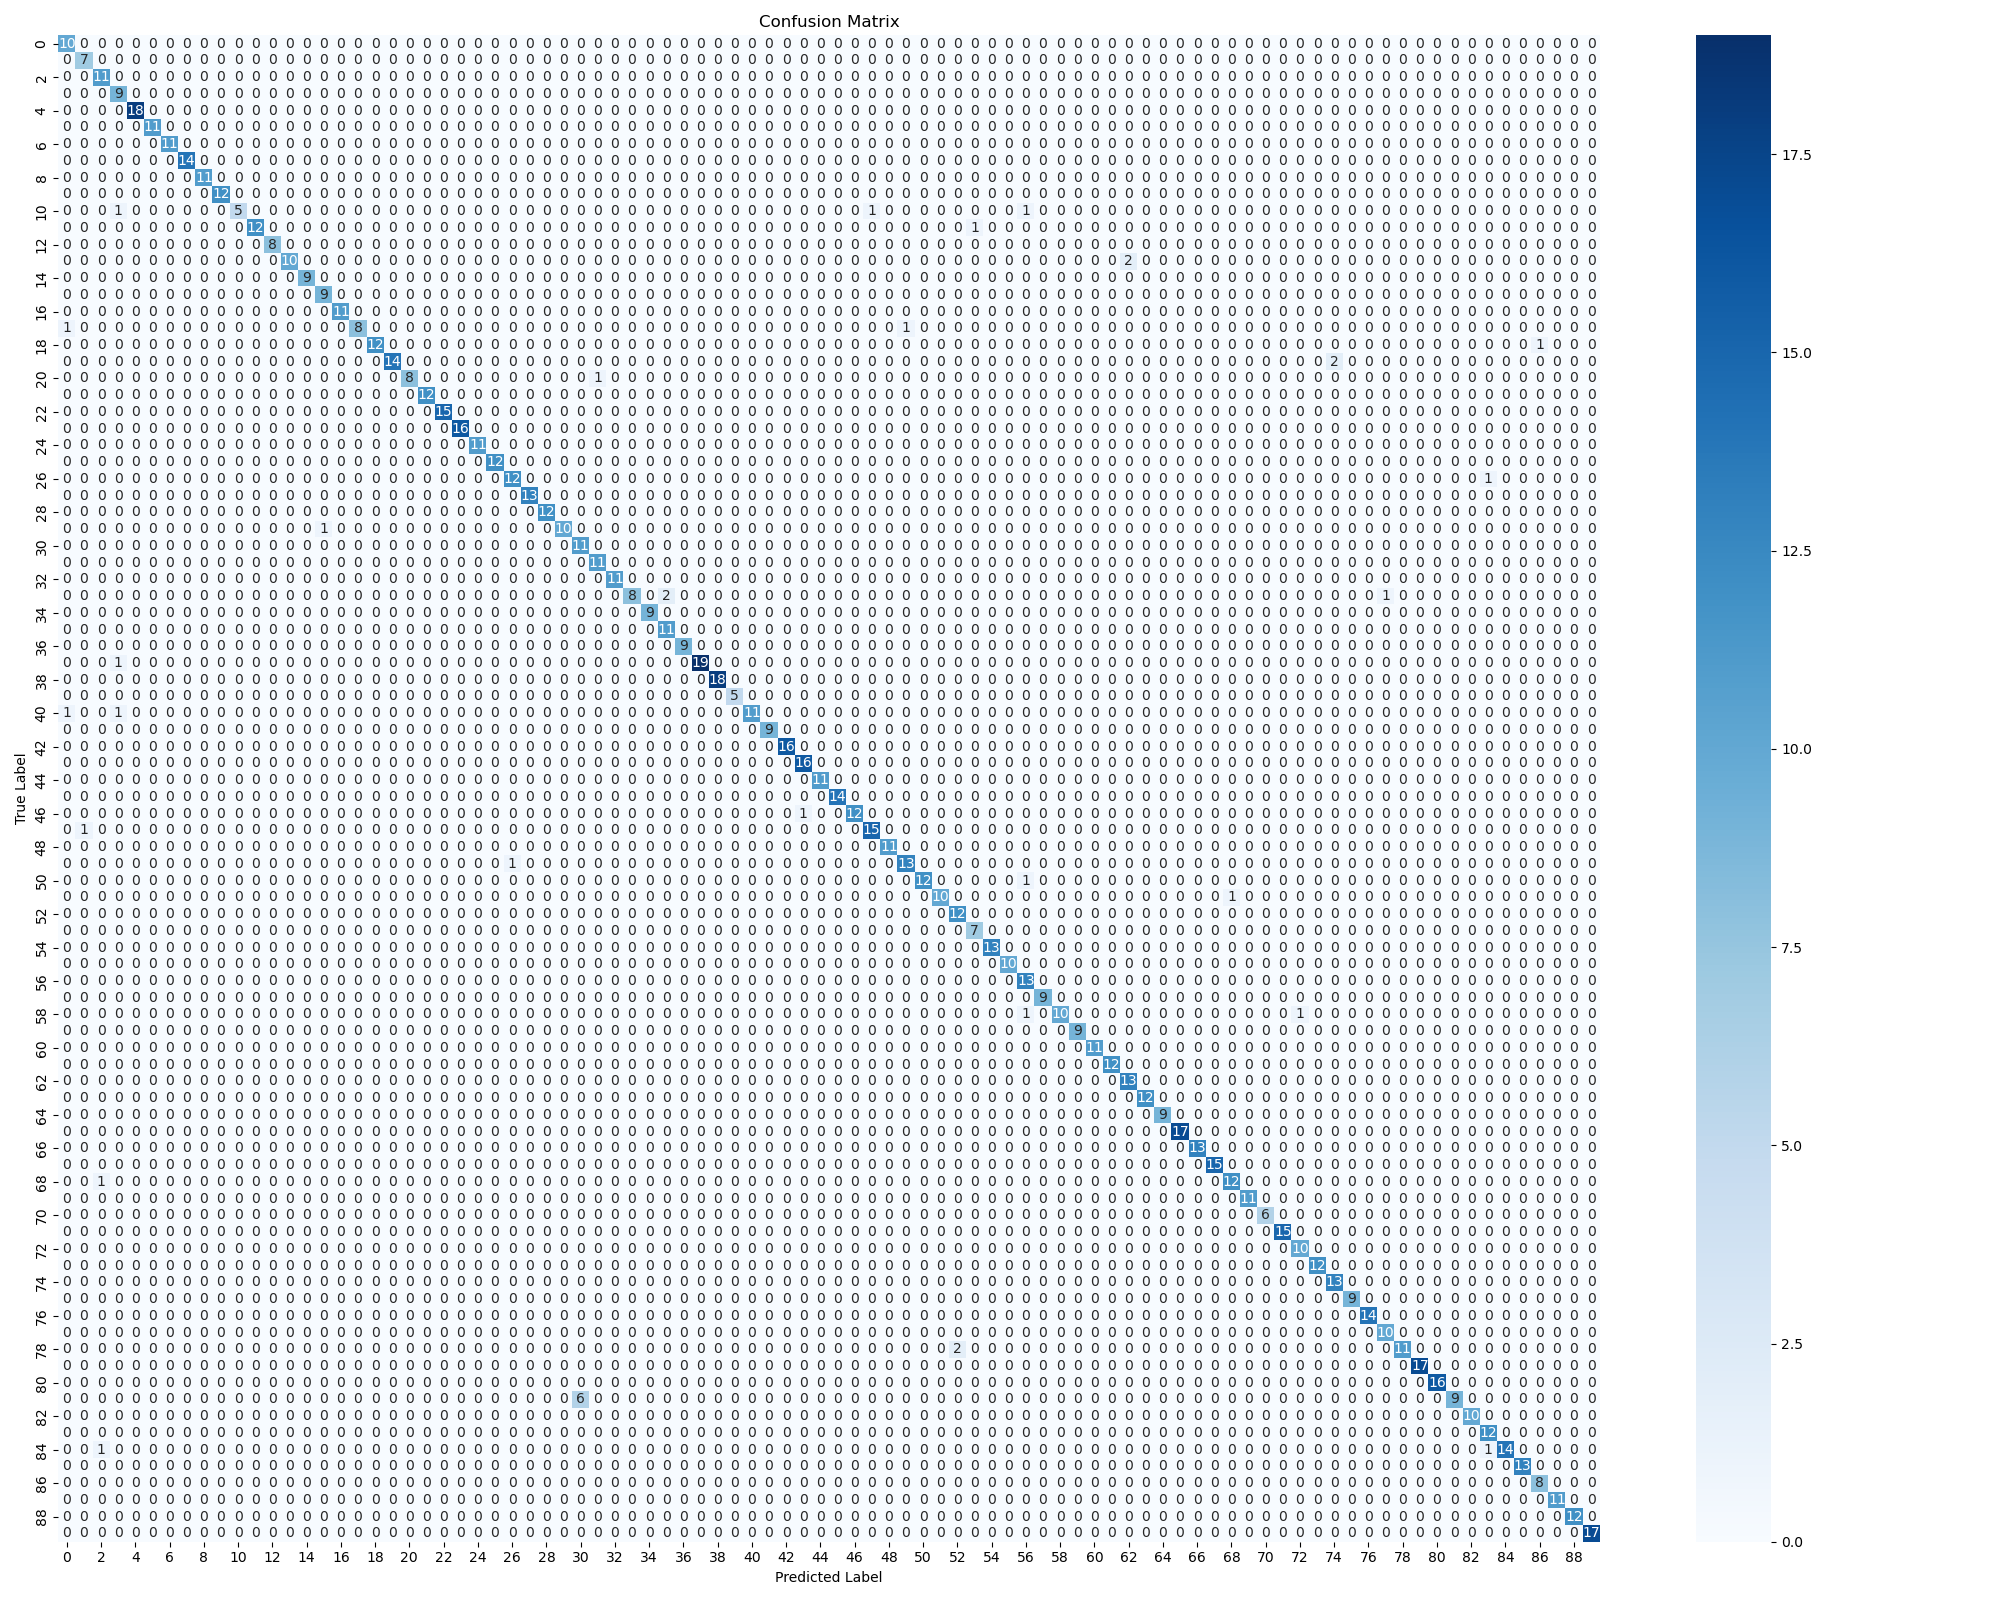
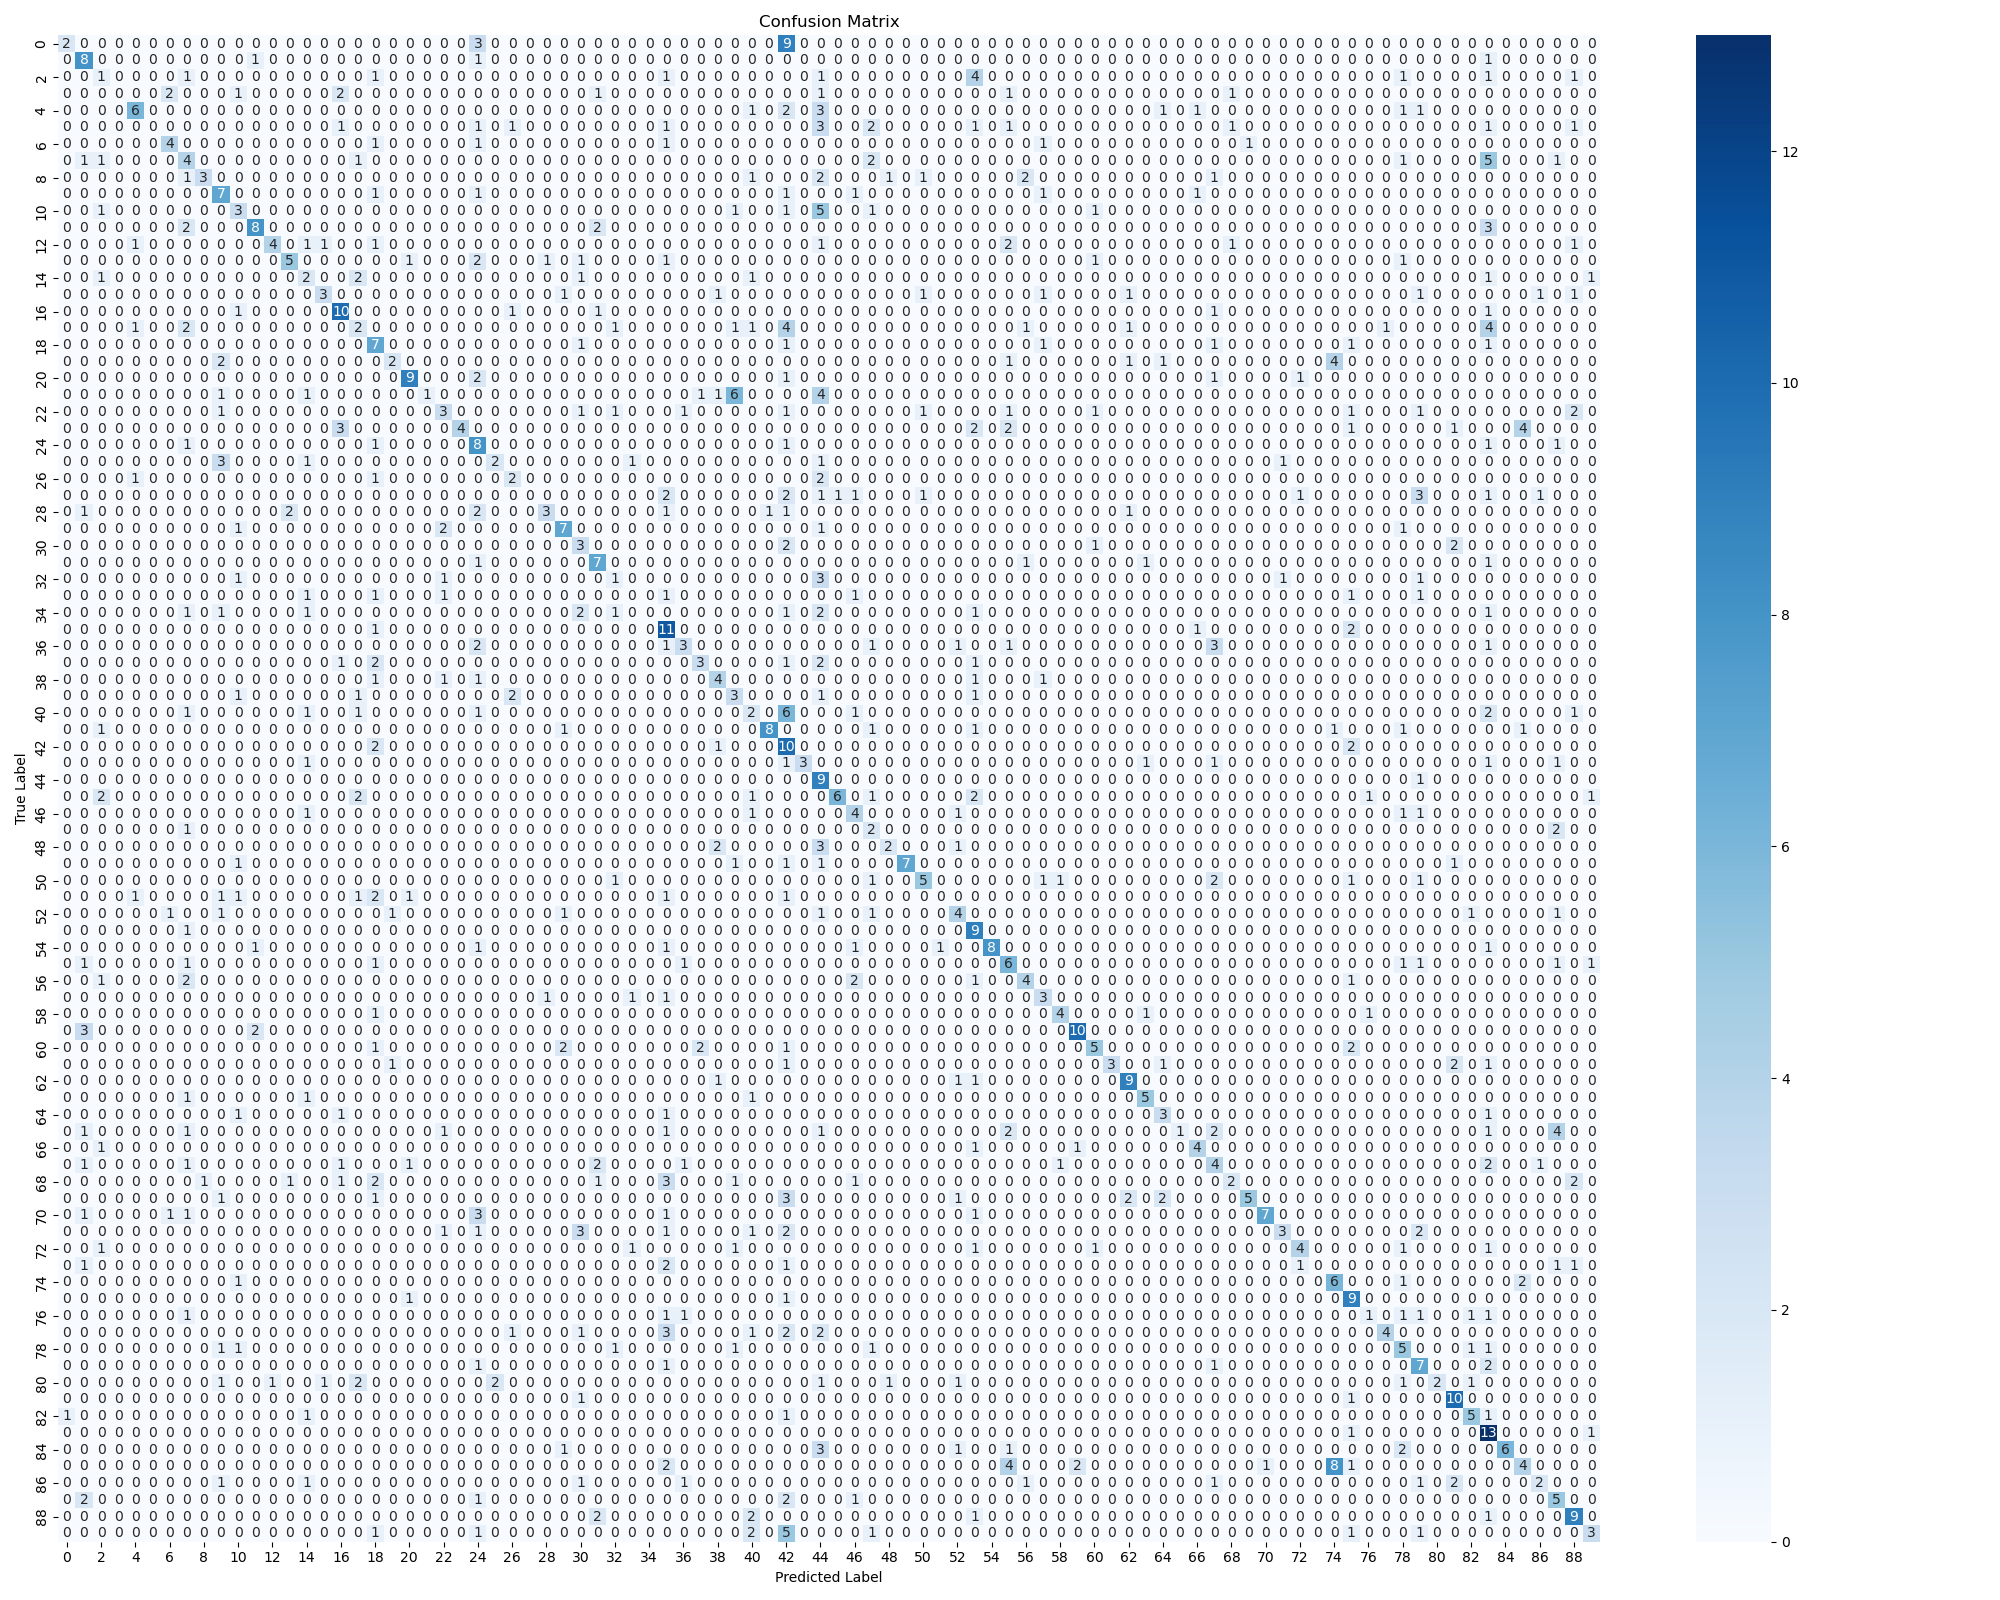
model changes

diff --git a/model.py b/model.py
@@ -3,20 +3,22 @@ import torch.nn as nn
 import torchvision.models as models
 
 
-class EncoderCNN(nn.Module):
+class AutoEncoder(nn.Module):
     def __init__(self, embed_size, num_classes):
-        super(EncoderCNN, self).__init__()
-        resnet = models.resnet50(weights=models.ResNet50_Weights.DEFAULT)
-        for param in resnet.parameters():
-            param.requires_grad = False
-        self.resnet = nn.Sequential(*list(resnet.children())[:-1])
-        self.linear = nn.Linear(resnet.fc.in_features, embed_size)
-        self.bn = nn.BatchNorm1d(embed_size, momentum=0.01)
-        self.classifier = nn.Linear(embed_size, num_classes)
+        super(AutoEncoder, self).__init__()
+        self.encoder = nn.Sequential(
+            nn.Linear(9408, 1024), # 224*224*3
+            nn.ReLU(),
+            nn.Linear(1024, embed_size)
+        )
+        self.bn = nn.BatchNorm1d(embed_size)
+        self.classifier = nn.Sequential(
+            nn.Linear(embed_size, num_classes)
+        )
 
     def forward(self, images):
-        features = self.resnet(images)
+        features = self.encoder(images.view(-1, 9408))
         features = features.view(features.size(0), -1)
-        features = self.bn(self.linear(features))
+        features = self.bn(features)
         predictions = self.classifier(features)
         return features, predictions

diff --git a/similarity.py b/similarity.py
@@ -2,7 +2,7 @@ import sqlite3
 import numpy as np
 import torch
 import cv2
-from model import EncoderCNN
+from model import AutoEncoder
 from dataset import ImageDataset, transform, animal_array
 from torch.utils.data import DataLoader, random_split, Subset
 from sklearn.metrics import precision_recall_fscore_support, confusion_matrix
@@ -13,7 +13,7 @@ torch.manual_seed(42)
 np.random.seed(42)
 
 def load_model(model_path, device):
-    model = EncoderCNN(embed_size=256, num_classes=90)
+    model = AutoEncoder(embed_size=256, num_classes=90)
     model.load_state_dict(torch.load(model_path, map_location=device))
     model.to(device)
     model.eval()

diff --git a/train.py b/train.py
@@ -2,7 +2,7 @@ import sqlite3
 import torch
 import torch.optim as optim
 import torch.nn as nn
-from model import EncoderCNN
+from model import AutoEncoder
 from dataset import ImageDataset, transform
 from torch.utils.data import DataLoader, random_split
 import numpy as np
@@ -34,7 +34,7 @@ train_dataset, _ = random_split(dataset, [train_size, test_size])
 
 data_loader = DataLoader(train_dataset, batch_size=16, shuffle=True)
 
-model = EncoderCNN(embed_size=256, num_classes=90).to(device)
+model = AutoEncoder(embed_size=256, num_classes=90).to(device)
 criterion = nn.CrossEntropyLoss()
 optimizer = optim.Adam(model.parameters(), lr=0.01)
 

diff --git a/dataset.py b/dataset.py
@@ -33,7 +33,7 @@ class ImageDataset(Dataset):
 
 transform = transforms.Compose([
     transforms.ToPILImage(),
-    transforms.Resize((224, 224)),
+    transforms.Resize((56, 56)),
     transforms.ToTensor(),
     transforms.Normalize(mean=[0.5, 0.5, 0.5], std=[0.5, 0.5, 0.5])
 ])
